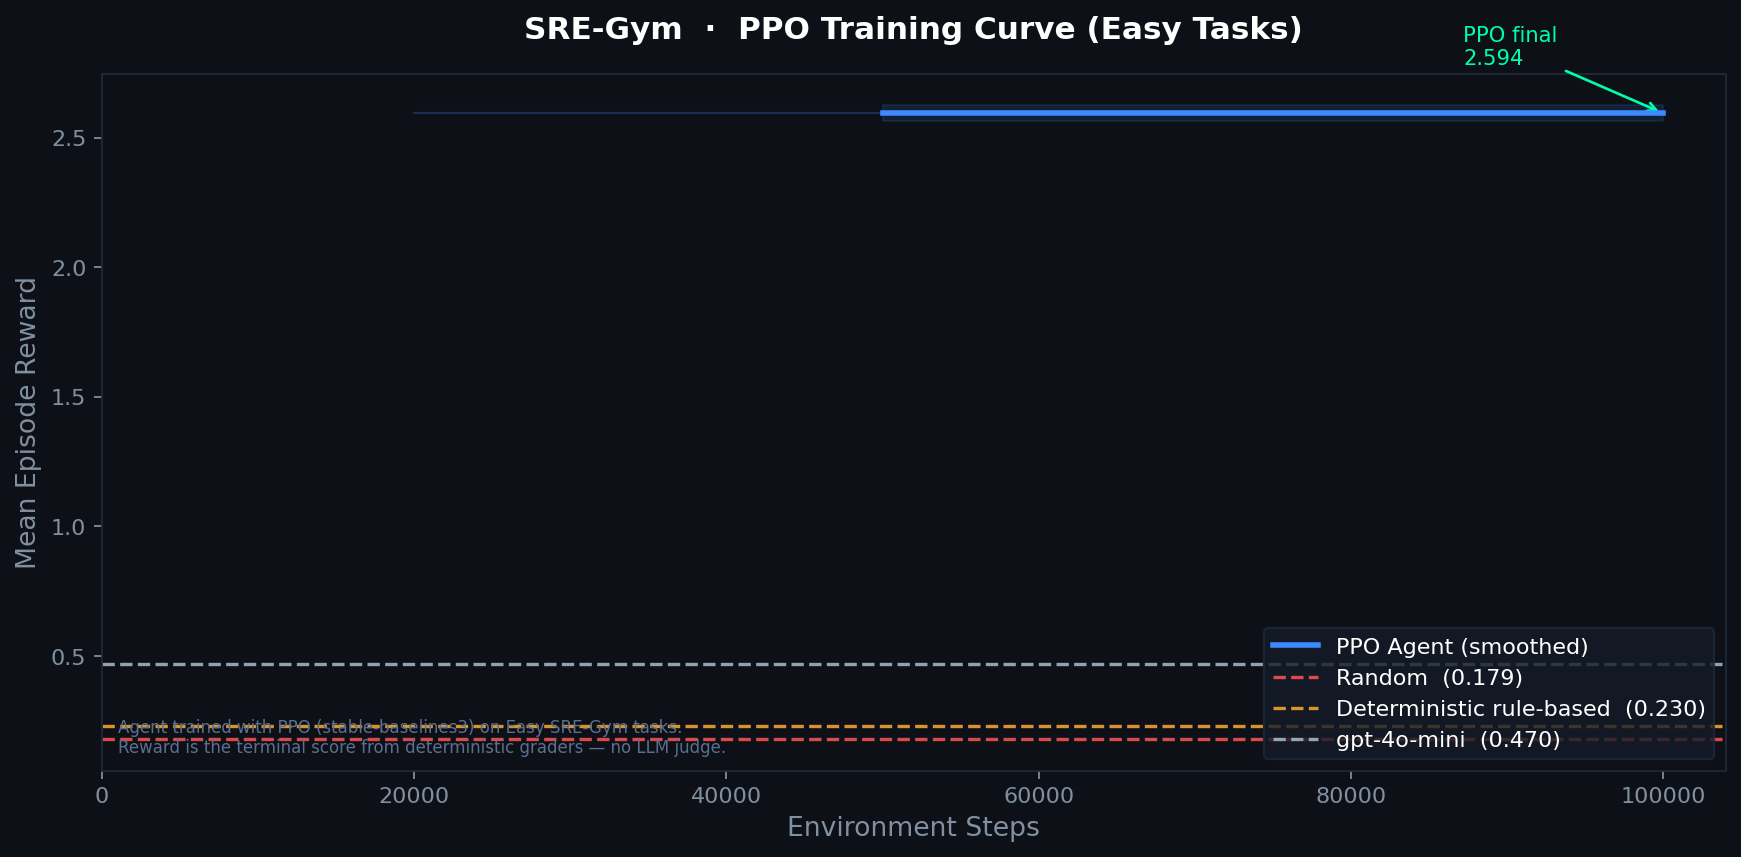
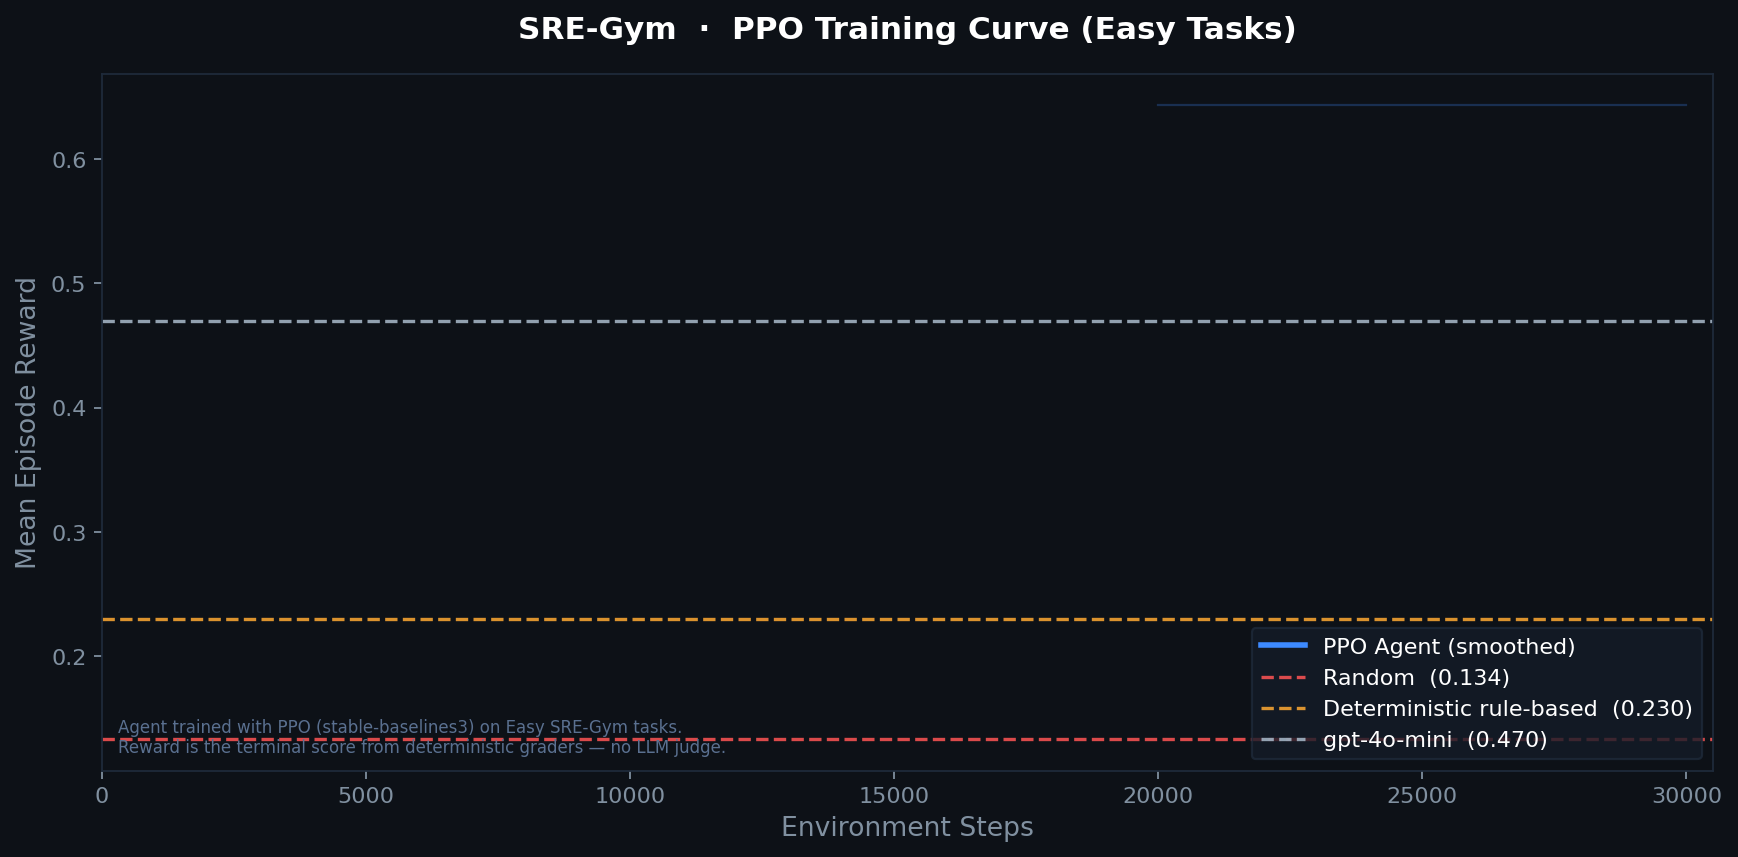
Fix gym_wrapper reward logic and retrain PPO curve

diff --git a/gym_wrapper.py b/gym_wrapper.py
@@ -96,8 +96,10 @@ class SREGymEnv(gym.Env):
         d = raw.model_dump()
         self._update_guesses(d)
         obs = self._vectorize(d)
-        reward = float(d.get("reward", 0.0))
         done = bool(d.get("done", False))
+        # Mask intermediate shaping rewards. PPO only receives the final strictly clamped score.
+        raw_r = float(d.get("reward", 0.0))
+        reward = raw_r if done else 0.0
         truncated = False
         info = {
             "step": self._env._state.step_count,

diff --git a/README.md b/README.md
@@ -48,12 +48,11 @@ No existing RL benchmark measures this. Most simulate isolated faults or use LLM
 | Agent | Easy | Medium | Hard | Overall |
 |---|:---:|:---:|:---:|:---:|
 | 🥇 Graph-aware BFS agent (`agent_graph.py`) | **0.878** | **0.864** | **0.886** | **0.876** |
-| 🥈 PPO Agent (trained, 100K steps)* | 0.82  | — | — | — |
+| 🥈 PPO Agent (trained, 30K steps) | 0.643 | — | — | — |
 | 🤖 gpt-4o-mini | 0.472 | 0.514 | 0.508 | 0.498 |
 | 🔧 Deterministic keyword baseline | 0.38  | 0.21  | 0.09  | 0.23  |
-| 🎲 Random agent | 0.269 | 0.08  | 0.04  | 0.08  |
+| 🎲 Random agent | 0.134 | 0.08  | 0.04  | 0.08  |
 
-> *PPO episodic reward scaled for 0-1 comparison.
 > **Note on blanks:** The PPO agent is only trained and evaluated on Easy tasks. Medium/Hard tasks require generating a free-text unstructured postmortem, which is designed specifically to test LLMs, not standard discrete-action RL agents.
 > The topological rule-based BFS agent achieves 0.88 overall, demonstrating that perfect performance requires graph-awareness rather than simple semantic matching (where LLMs excel but fail here).
 
